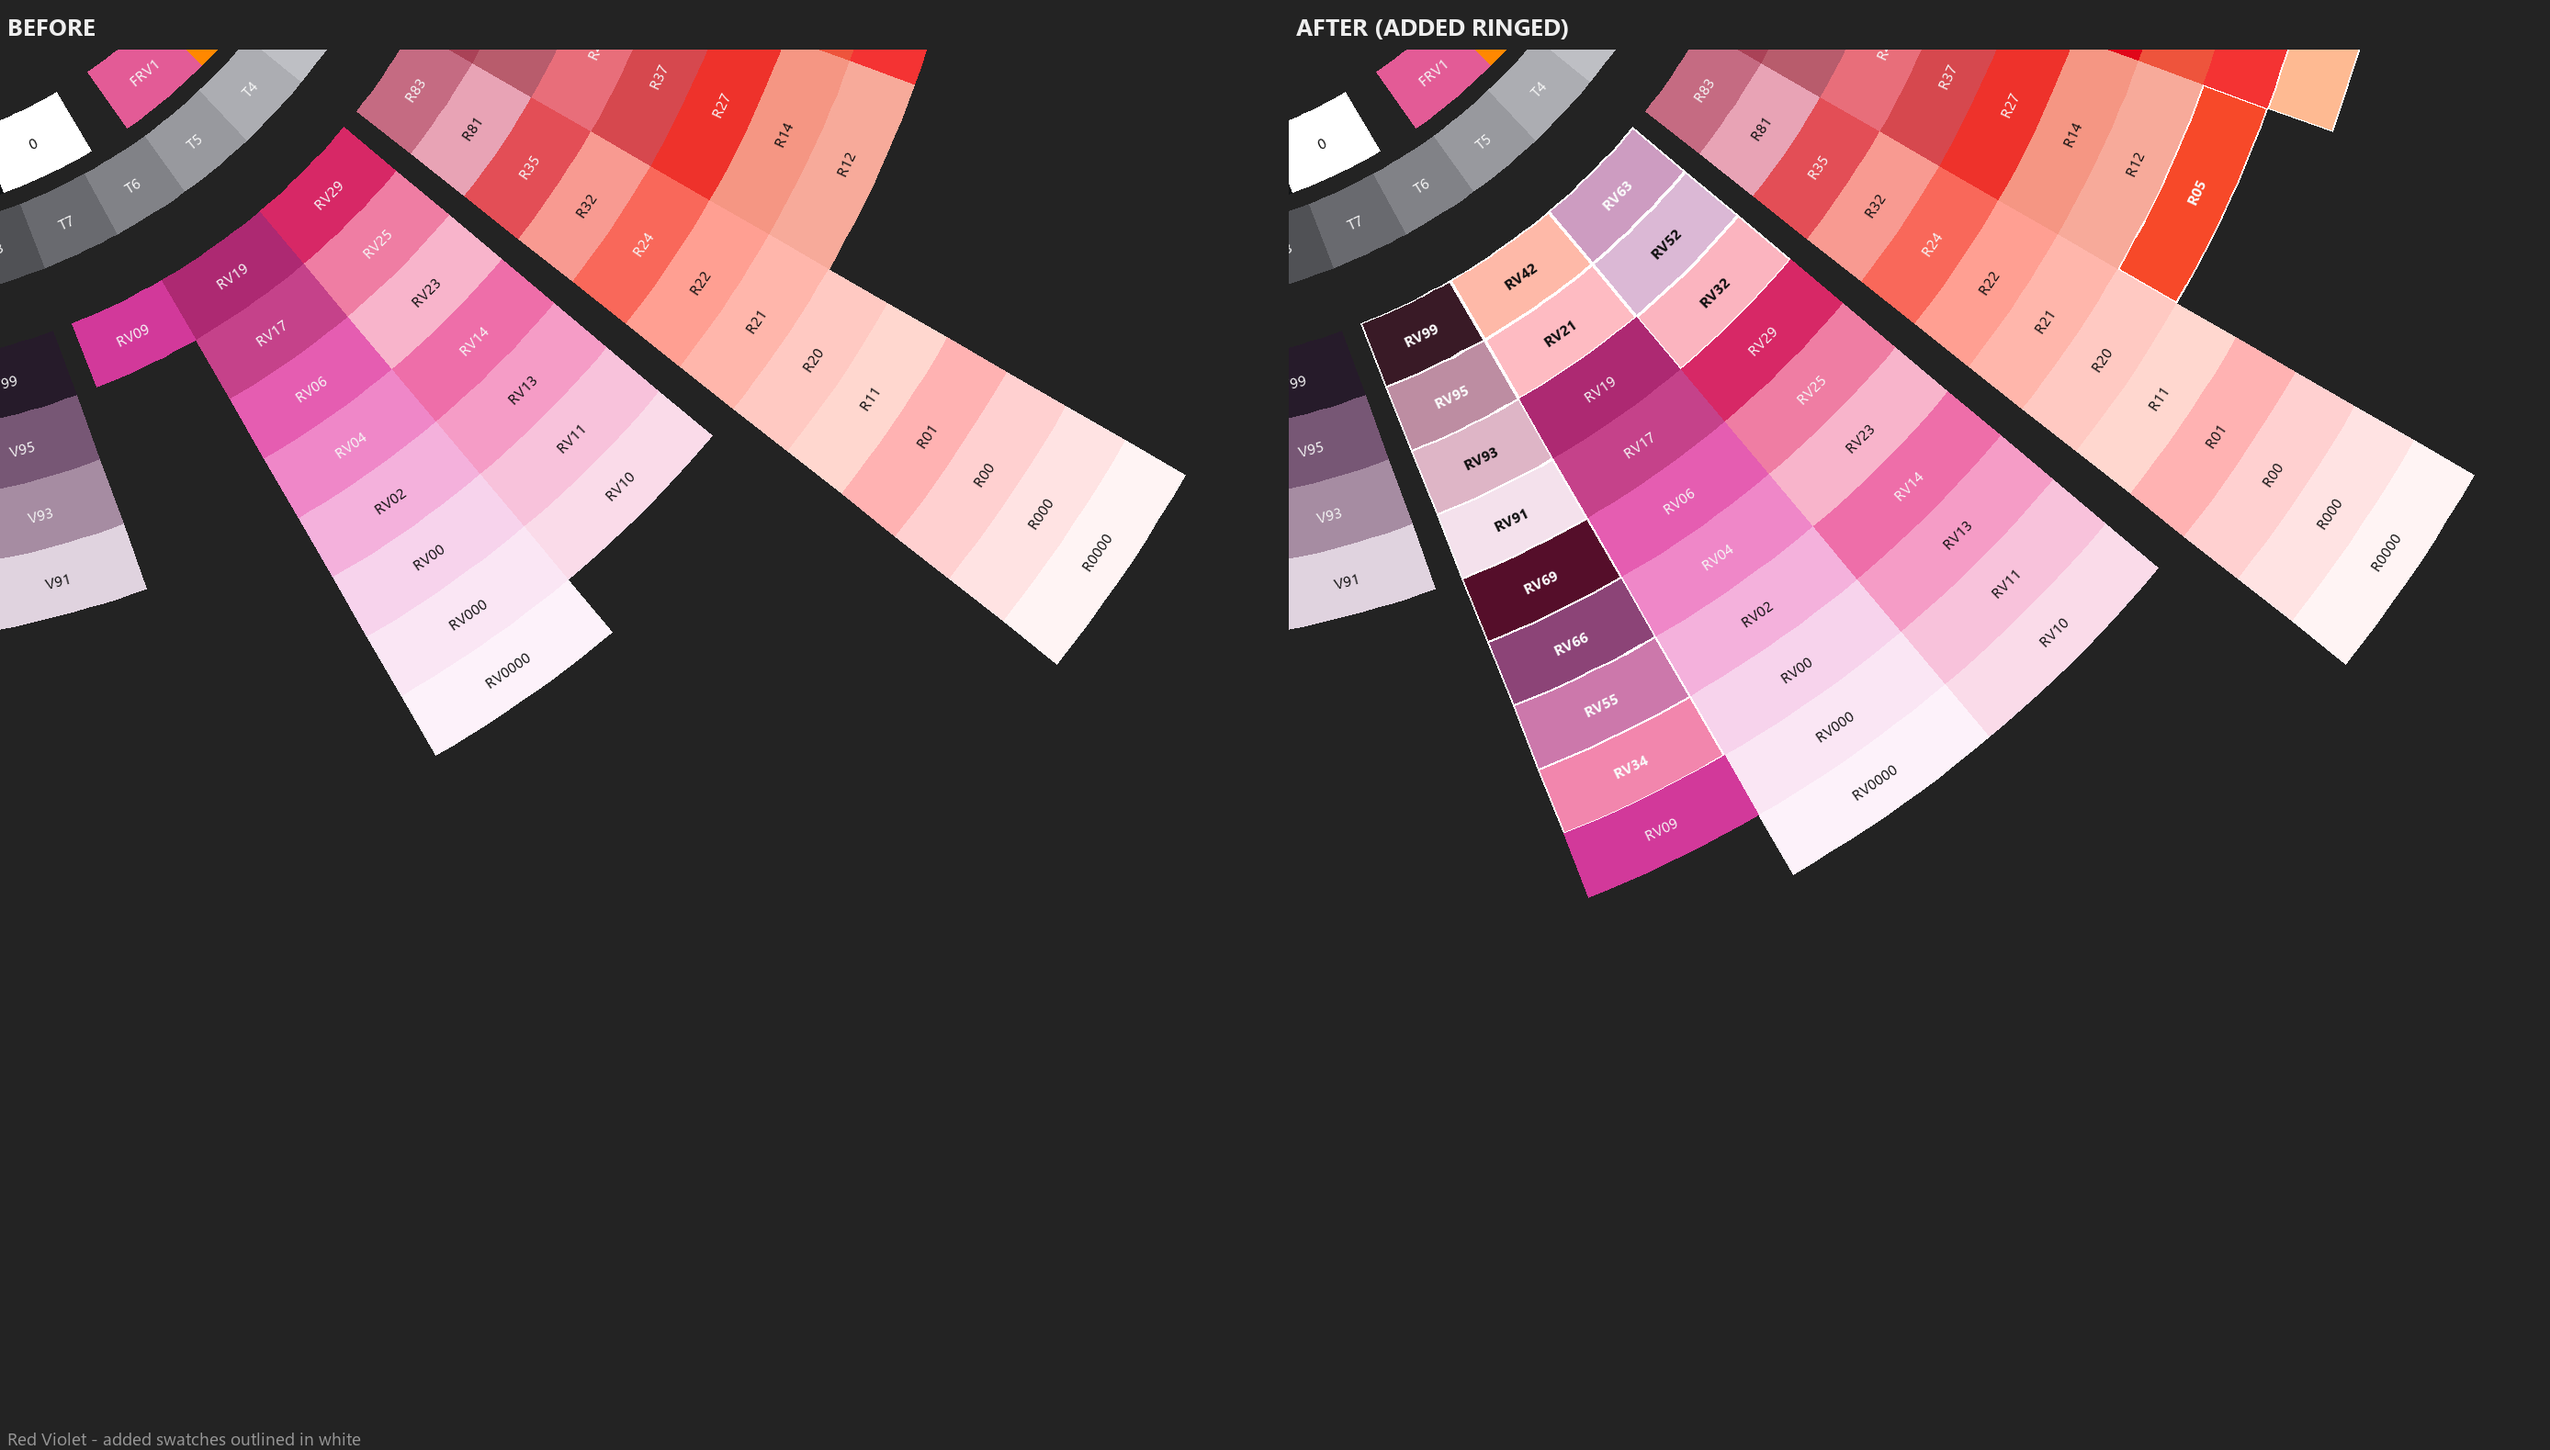
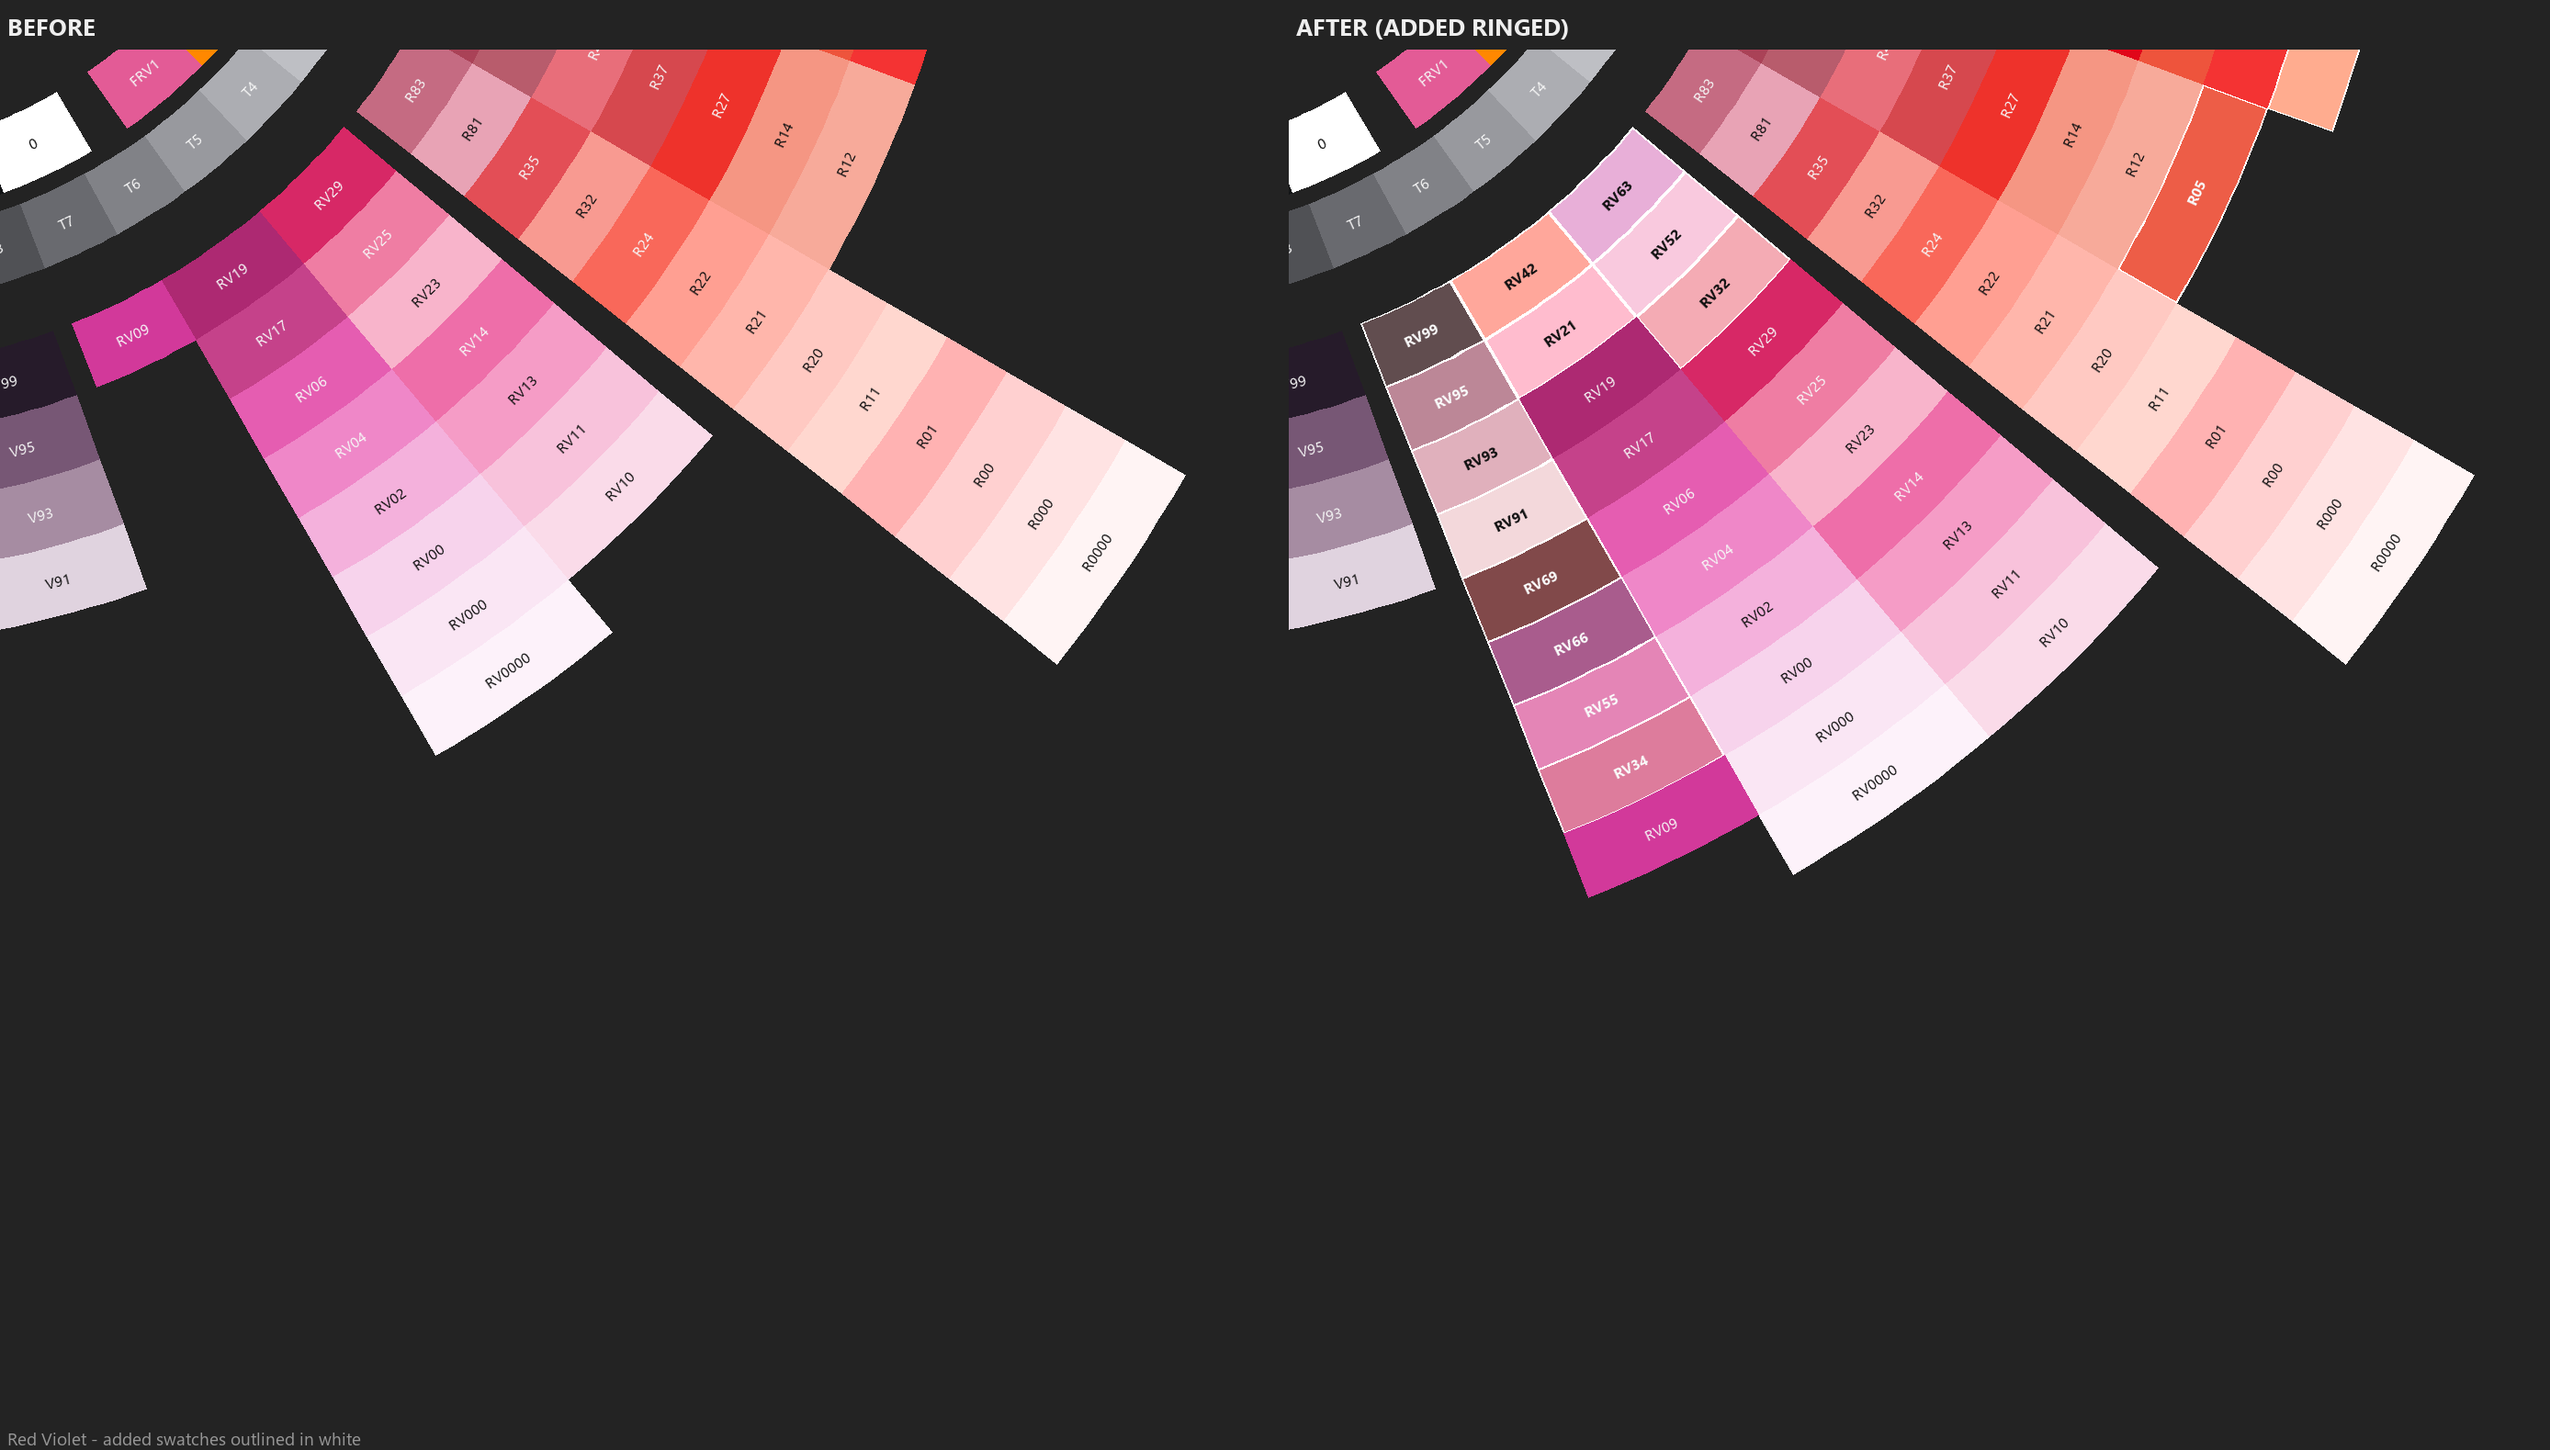
CONCEPTS-REF 11.27: the seam recorded as deliberate
The code is the easy half. Without this section the next person to measure
the wheel finds 49 swatches that disagree with their neighbours, reads it
as a defect, and "fixes" it - either by re-sourcing the 49 or, far worse,
by re-deriving the 309 to match an external dataset, which would quietly
destroy a hand-built palette.

So 11.27 records what was measured and what was chosen: that the 49 come
from Concepts' table rather than the user's copicColors.js; that the two
agree 0 times in 308 at a median of 35.9 RGB units, 0.62 of the 58.1-unit
marker step, worst in Earth and the fluorescents; that the user saw those
figures and the seam render and chose to proceed; and that no external
source will ever match, since Concepts and meodai agree with each other at
22.4 while either sits ~35 from this palette, and cross-validated
per-family fits move 35.9 only to 29.4 with three families coming out
worse.

11.11's counts are corrected in place rather than rewritten - the user's
original ruling stays as it was said, with a dated note beneath it. The
real figures: 309 real codes of 358, not 316; 49 absent, not "roughly 42";
the eight fluorescents never absent at all. The wheel now holds all 358.

Also records the ten invented codes as confirmed invented - absent from
Concepts' authoritative 357 - and kept deliberately, never to be treated
as reference values.

Renders regenerated at Concepts' values, before and after plus five
per-family detail crops.

diff --git a/docs/CONCEPTS-REF-2026-08-07.md b/docs/CONCEPTS-REF-2026-08-07.md
@@ -838,6 +838,15 @@ are missing.** The Sketch range is 358 markers; the wheel holds 316, so roughly
 the existing 316 — **no interpolated swatches, no invented families, nothing
 that is not a marker you could buy.** Every added cell must carry its true code.
 
+> **Corrected 2026-08-25 — see §11.27.** The counts here are wrong: the wheel
+> held **309** real Sketch codes, not 316, so **49** were absent rather than
+> "roughly 42". The eight fluorescent accents were never missing. And
+> "calibrated by the same method as the existing 316" turned out to be
+> impossible — that method was the user's own hand-assembled `copicColors.js`,
+> which has no entry for any absent code, and no external source reproduces it.
+> The user was shown the measurement and chose to add the 49 from Concepts'
+> table regardless, accepting a different calibration.
+
 The approval gate stands: **produce a before/after image of the wheel and get
 the user's approval before committing.**
 
@@ -1369,6 +1378,129 @@ where there is no last page.
 Still open, deliberately untouched: `Library.Theme` defaulting to `"Dark"` is
 what makes the defaults collide into `#0F0E10` in the first place. Changing it
 would alter first-run appearance for genuinely new users, so it was left alone.
+
+### 11.27 The 49 absent Sketch codes — added from Concepts, 2026-08-25
+
+§11.11 asked for the genuinely missing Sketch codes to be added **"calibrated
+by the same method as the existing 316."** That proved impossible. The
+measurement that proves it is below; the user saw it and ruled to add them
+anyway, from a different source. **The resulting seam is deliberate and
+accepted. Do not "fix" it.**
+
+**The counts §11.11 used were wrong**, which is why its arithmetic never worked
+out. Correct figures, before → after:
+
+| | before | after |
+|---|---|---|
+| entries in `CopicPalette.cs` | 321 | **370** |
+| markers (excl. `White`, `Black`) | 319 | 368 |
+| **real Sketch codes** | **309** | **358 — the complete range** |
+| invented codes retained | 10 | 10 |
+
+So the gap was **49, not "roughly 42"**, and it is now **closed entirely**: no
+official Sketch code is absent from the wheel. §11.11 also assumed the eight
+fluorescent accents — `FV2 FB2 FBG2 FYG2 FYG1 FY1 FYR1 FRV1` — were missing.
+They were present all along, in `Tier1Raw`'s `Accents` row.
+
+**What went in.** 49 codes, in four whole-family blocks plus scattered singles:
+
+| family | n | codes |
+|---|---|---|
+| `RV` | 13 | `RV21 RV32 RV34 RV42 RV52 RV55 RV63 RV66 RV69 RV91 RV93 RV95 RV99` |
+| `BG` | 13 | `BG0000 BG000 BG01 BG02 BG05 BG07 BG09 BG10 BG11 BG13 BG15 BG18 BG23` |
+| `B` | 5 | `B91 B93 B95 B97 B99` |
+| `G` | 5 | `G29 G40 G82 G85 G94` |
+| `YR` | 5 | `YR12 YR14 YR20 YR21 YR61` |
+| `R` | 3 | `R02 R05 R30` |
+| `BV` | 2 | `BV11 BV13` |
+| `YG` | 2 | `YG06 YG61` |
+| `Y` | 1 | `Y32` |
+
+**Where the hexes come from.** Concepts' own COPIC table, extracted from
+`TopHatch.Concepts.dll` by `scratchpad/copic_concepts_extract.py` — 357 codes
+held as length-prefixed `CODE` + BGRA records, so each code sits in the same
+record as its colour. The pairing is therefore structural, and the
+rotated-label mis-pairing that makes sampling the rendered wheel risky cannot
+occur.
+
+`scratchpad/copic_wheel_proof.py` establishes that this table is what the wheel
+actually draws, three ways: three of four flat-fill interiors sampled from a
+full-resolution capture of the live Concepts dial are byte-for-byte identical to
+its entries (`R46`, `RV63`, `FV2`); the record run terminates in the
+`IHslWheel_Bindings` literal; and the table's order **is** the wheel's tier
+order — eleven outer families, four grey families, three core numbers, eight
+fluorescent accents — the same three tiers `CopicPalette.cs` mirrors, with
+identical grey and fluorescent memberships.
+
+**They are a different calibration, and that was known and accepted.** The
+existing 309 were lifted verbatim from the user's own web `copicColors.js`,
+which has no entry for any of these 49. On the 308 codes both tables hold,
+Concepts and `copicColors.js` agree **exactly zero times**:
+
+| | value |
+|---|---|
+| exact matches | **0 of 308** |
+| median difference | **35.9 RGB units** |
+| median step between *adjacent* markers | 58.1 RGB units |
+| so, in marker steps | **0.62 of one step** |
+| further apart than two neighbouring markers | 71 of 308 (23%) |
+| worst | `E95` — `#875324` here vs `#ffb68d` in Concepts, d = 187.7 |
+
+Divergence is worst in Earth (median 42.6, max 187.7 — the calibration commit
+darkened Earth wholesale) and in the fluorescents (74–100, i.e. 1.3–1.7 steps).
+Restricted to the nine families that actually received codes it is unchanged at
+36.0, so the headline figure describes the seam a viewer really sees rather than
+being inflated by families that gained nothing.
+
+The user was shown these figures and the before/after render, and chose to
+proceed. Reproduce it with `python scratchpad/copic_control.py`.
+
+**No external source will ever match `copicColors.js`.** This is the part that
+matters for whoever measures this next:
+
+* Concepts and meodai's public dataset agree with **each other** at a median of
+  **22.4** — far closer than either is to this palette (**35.9** and **34.9**).
+  The user's file is the outlier, not the sources.
+* meodai reproduced exactly **one** of its hexes (`0`, white). Concepts
+  reproduces **none**.
+* A learned transform does not rescue it. Per-family affine fits from Concepts
+  to `copicColors.js`, five-fold cross-validated so every residual is measured
+  on codes the fit never saw, move the median only from 35.9 to **29.4** —
+  still half a marker step — and leave `C`, `W` and `Y` *worse* than no fit at
+  all. A single global fit is worse than doing nothing. See
+  `scratchpad/copic_transform_fit.py`.
+
+There is no recipe to recover because there was never a recipe: `copicColors.js`
+was assembled by hand, colour by colour. It also carries six duplicate hexes
+(`FB2`/`B06`, `0`/`White`, `R89`/`E89`, `Y19`/`Y35`, `E59`/`E18`, `E87`/`E77`),
+which is itself a fingerprint of hand assembly.
+
+> **Therefore: do not re-source the 49, and do not re-derive the 309.** Both
+> would be wrong, and the second would quietly destroy a hand-built palette.
+> The only source that could match the 309 is the user's own file, and it does
+> not contain these codes. If the seam is ever to close, it closes by the user
+> extending `copicColors.js` — never by an agent picking a different dataset.
+
+**The ten invented codes stay, and are now confirmed invented.** `BV39`,
+`BV91`, `BV93`, `BV95`, `BV97`, `BV99`, `G91`, `G93`, `G95`, `G97` are not
+Sketch markers: they appear in no official listing, and Concepts' authoritative
+357 excludes every one of them. The user ruled separately to leave them in place
+for now. **They are not reference values — never treat one as a source of truth,
+and never "correct" a real marker to agree with one.**
+
+**Extent did not move**, as §11.21 requires. `MaxRings` stays **17**, the Earth
+column at 190°–200° remains the deepest at 17 cells, and the rendered outer
+radius is **1121 reference DIP before and after** — identical, because the
+radius is an accumulation off `MaxRings` rather than a target. The 49 are dealt
+across each family's *own* columns into whichever is currently shallowest, never
+stacked into one: the bracketing rule an earlier attempt used put all 13 `RV`
+codes into a single column, taking it from 7 cells to 20 and growing the whole
+wheel.
+
+Evidence renders in `scratchpad/copic_out/`: `wheel_before.png`,
+`wheel_after.png`, `wheel_after_marked.png` (added cells ringed white), and the
+per-family detail crops `detail_red-violet.png`, `detail_blue-green.png`,
+`detail_blue.png`, `detail_green.png`, `detail_yellow-red.png`.
 
 ---
 
